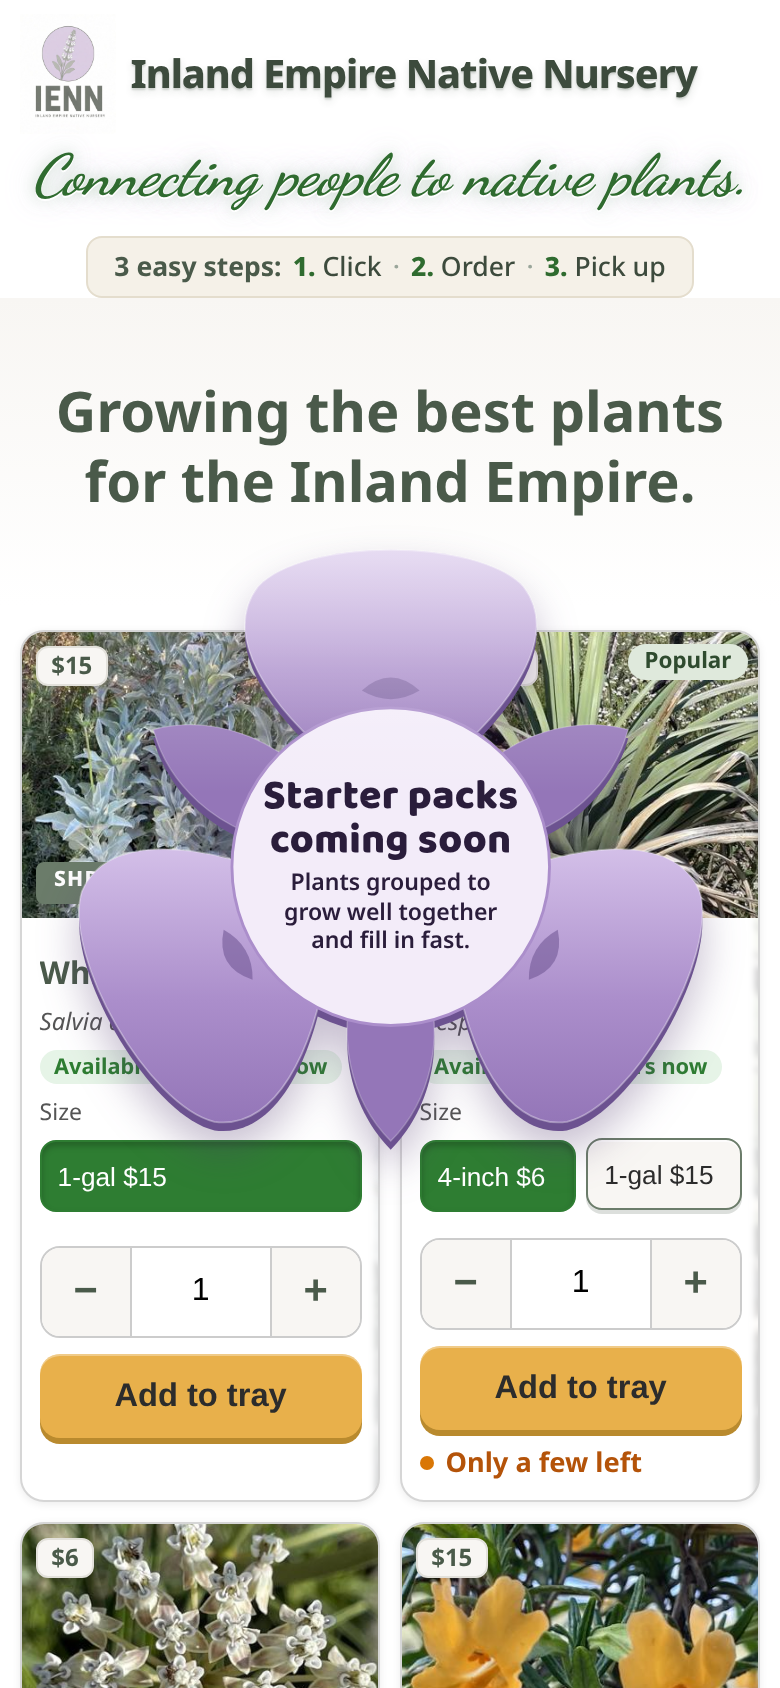
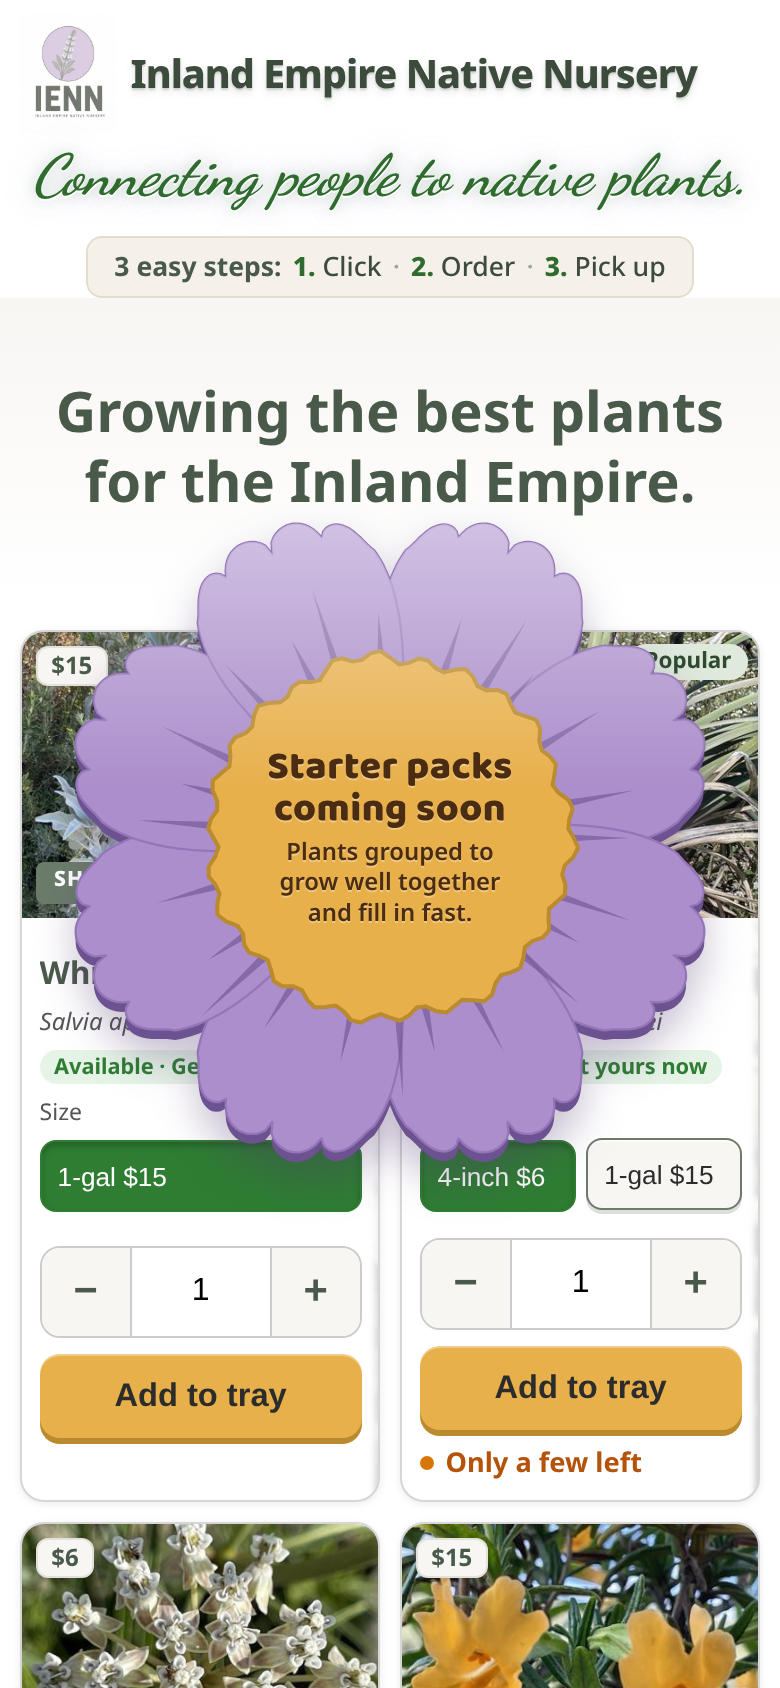
Aster teaser: default shots (plain URL) + notes

Changed region(s): [[0.0923, 0.3081, 0.9231, 0.7085]]

diff --git a/docs/teaser-flowers.md b/docs/teaser-flowers.md
@@ -18,3 +18,11 @@ Default stays `calochortus` (face-on, solid) until Eric picks.
 - `calochortus-side`: a side view based on Jepson's open bowl- or cup-shaped flower. Three broad wedge petals rise into a cup with slightly recurved tips. The front petal holds a frosted text plate and a nectary mark near its base. Two narrower sepals spread below and behind, and a short sage pedicel sits underneath. The flower uses the same translucent treatment as the glass variant.
 
 You can preview either one with `?teaser=now&teasershape=calochortus-glass` or `?teaser=now&teasershape=calochortus-side`.
+
+## Aster (Eric's pick, now the default: `STARTER_TEASER_SHAPE = "aster"`)
+
+Eric's reference image was used for style only. Nothing was copied or embedded from it, and its ring, text and yellow are not used.
+
+The aster is a bold, flat-graphic, face-on flower with 8 broad, overlapping lilac petals. Each petal has 4 soft scallops across its tip. Thin, darker-lilac lines radiate from the disk onto the petals. The large honey disk (`--honey`, the same color as Add to tray) has a slightly bumpy edge, and the Baloo heading and subline sit inside it in dark brown.
+
+The shape is built in `teaser.js` at runtime, so no large path data is stored. It keeps the same 3-D treatment as the other flowers: a darker-lilac offset edge, a drop shadow, a 6px press-sink and dismissal by tap or Escape.
